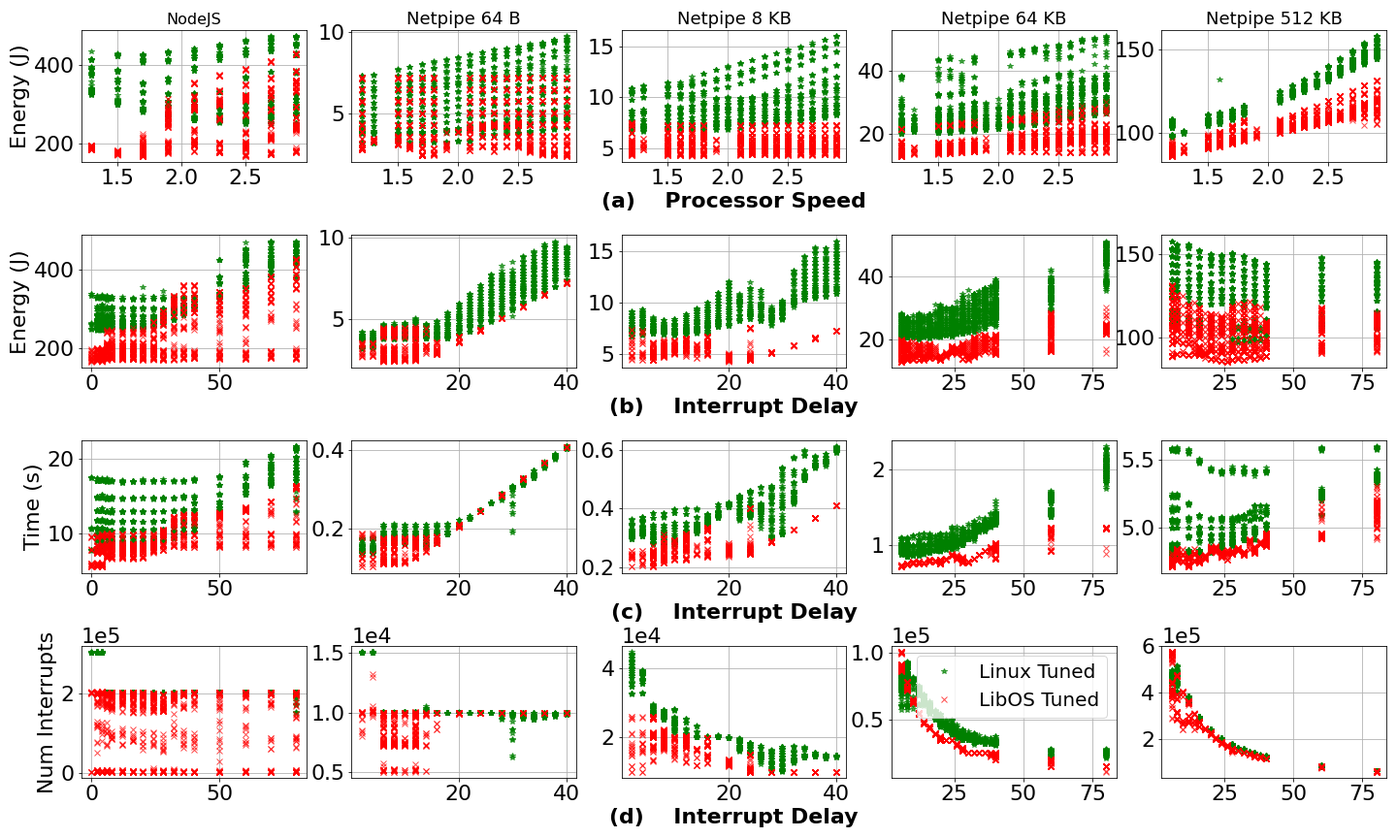
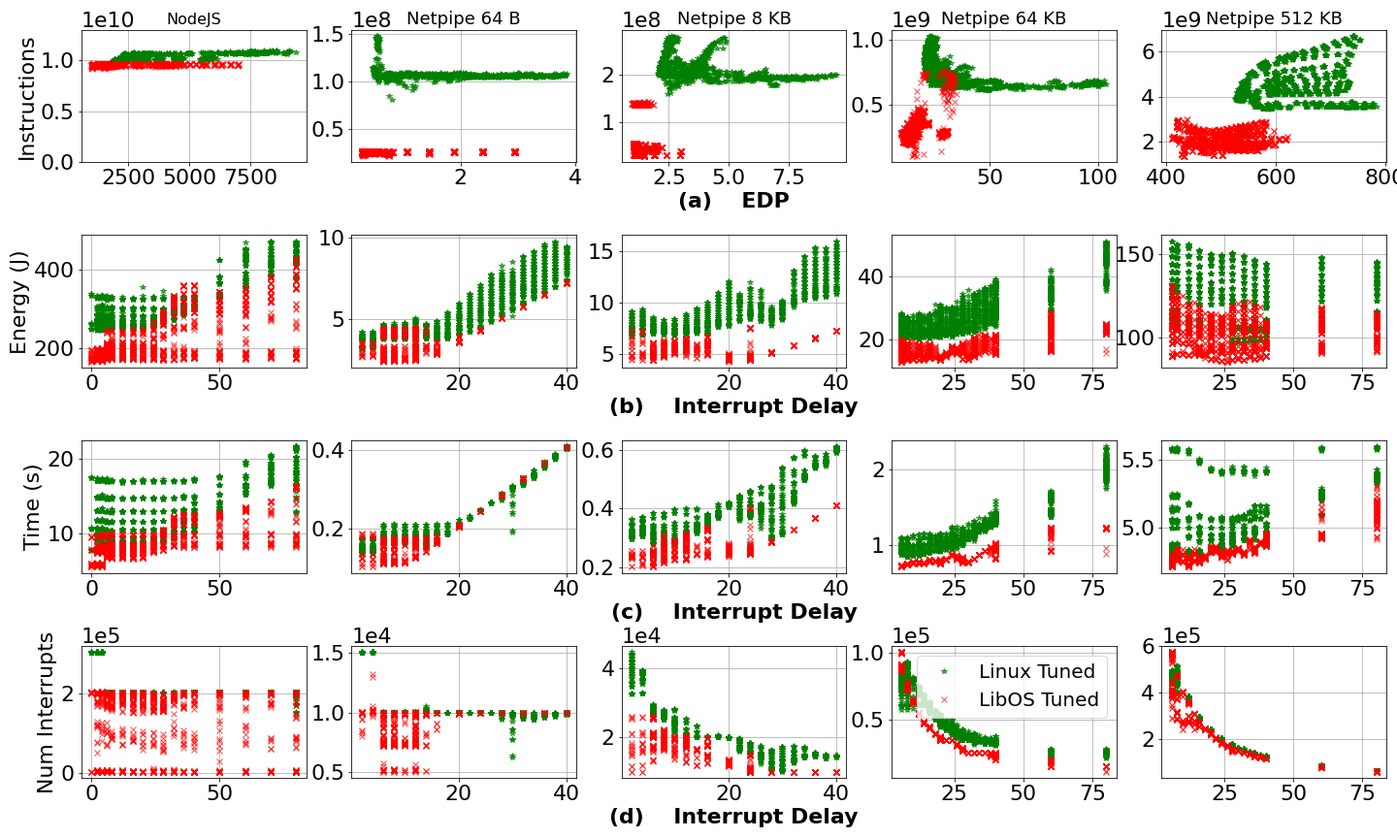
some text

Changed region(s): [[0.0, 0.0, 1.0, 0.25], [0.4375, 0.0, 0.4688, 0.0312], [0.0625, 0.0, 0.0938, 0.0312]]

diff --git a/sosp-21/workflow.tex b/sosp-21/workflow.tex
@@ -14,15 +14,18 @@
 From an OS perspective we break down network driven processing into stages that allows us to organize and reflect the OS and application interaction with the workload request timeline.  This break down is illustrated in figure~\ref{fig:timeline}.   
 
 \subsection{Quiescent}
+\label{sec:workflow:Quiescent}
 Given the packet and transactional nature of network driven services a quiescent period, in which no requests are present at the server, precedes activity on the server. 
 
 \subsubsection{Open Loop:}
-In an open loop scenario like a Memcached workload, the external request rate induces an inter-arrival gap that will drive the quiescent period -- longer at lighter loads (lower queries per second (QPS)) and shorter at heavier loads (higher QPS). Largely the arrival rate can be considered independent of the time required to service a request.  System performance is typically evaluated in terms of the 99\% tail latency it achieves.  Moreover, providers often set a Quality of Service (QoS) target, such as  a 99\% tail latency of 500${\mu}$s, categorizing system performance into acceptable and unacceptable.  As Mootaz et al.\cite{mootaz} observed, in latency focused workloads, the "latency-slack" between the mean time to servicing a request and the QoS target creates an opportunity for energy-performance tradeoffs.  In particular, it maybe possible to reduce mean performance by not executing requests as fast as possible and or not processing request immediately upon their arrival to reduce energy consumption while not violating the QoS target.  
+\label{sec:workflow:openloop}
+In an open loop scenario like a Memcached workload, the external request rate induces an inter-arrival gap that will drive the quiescent period -- longer at lighter loads (lower queries per second (QPS)) and shorter at heavier loads (higher QPS). Largely the arrival rate can be considered independent of the time required to service a request.  System performance is typically evaluated in terms of the 99\% tail latency it achieves.  Moreover, providers often set a Service-level Agreement (SLA) target, such as a 99\% tail latency of 500${\mu}$s, categorizing system performance into acceptable and unacceptable.  As Mootaz et al.\cite{mootaz} observed in latency focused workloads, the "latency-slack" between the mean time to servicing a request and the SLA target creates an opportunity for energy-performance trade-offs.  In particular, it maybe possible to reduce mean performance by not executing requests as fast as possible and or not processing request immediately upon their arrival to reduce energy consumption while not violating the QoS target.  
 
 \subsubsection{Closed Loop:}
-In a closed loop setting, like snapshotting a database to a remote server or video streaming, the arrival rate of the next request, that forms the overall task, depends on how long it takes to service the current request.  However, the quiescent period is bounded by the network round trip time, that depends on  the size of a request and reply packets, and the remote processing time.   System performance is largely evaluated on how fast a server can complete the entire task given a network link speed and a remote system.  Given workload specific characteristics such as the processing required and round-trip costs it is possible, as we will see, to find configurations in which the OS interacts with slowing down to improve both time and energy. We know from previous research in energy proportionality in datacenters, the nature of web-centric applications causes diurnal troughs~\cite{Barroso:2009:DCI:1643608, oldi-study, oldi-pegasus, warehouse-power, energyproportion, WebSearch}.
+\label{sec:workflow:closed_loop}
+In a closed loop setting, like snapshotting a database to a remote server or video streaming, the arrival rate of the next request, that forms the overall task, depends on how long it takes to service the current request.  However, the quiescent period is bounded by the network round trip time, that depends on  the size of a request and reply packets, and the remote processing time. System performance is largely evaluated on how fast a server can complete the entire task given a network link speed and a remote system.  Given workload specific characteristics such as the processing required and round-trip costs it is possible, as we will see, to find configurations in which the OS interacts with slowing down to improve both time and energy. 
 
-and one method with which to increase energy efficiency during these troughs is to maximize the amount of work done. 
+%We know from previous research in energy proportionality in datacenters, the nature of web-centric applications causes diurnal troughs~\cite{Barroso:2009:DCI:1643608, oldi-study, oldi-pegasus, warehouse-power, energyproportion, WebSearch}, and one method with which to increase energy efficiency during these troughs is to increase performance. We find even in the performance driven closed loop applications, there still exist interesting trade-offs between OSes.
 
 Given our goal of studying and explaining the implications of the OS on network driven processing our analysis framework, and evaluation, includes closed loop settings.  In particular, we use a simple ping-pong application to stress OS behavior while varying packet-sizes to reveal how OS path length and path efficiency interacts with slowing down processing, relative to the round trip time observed at the server.  Additionally we use a second closed loop that stresses single core application processing with negligible packet sizes to evaluate if OS structure can impact the application efficiency.  
 
@@ -32,10 +35,11 @@ Given our goal of studying and explaining the implications of the OS on network 
 Fundamental to any operating system is how it detects and schedule processing in response to IO device activity.  At the two extremes are interrupt and poll driven detection.  
 
 \subsubsection{Interrupt driven IO}
-Using interrupts has three important implications: 1) Interrupts can be used to transition a processor from a halted state which the OS entered to sleep the processor (at some selected HW sleep state (C-state)) in response to external activity, 2)  Interrupts allow an OS to arbitrate processing across competitive devices and processing in a multi-programmed/multi-device setting, 3) interrupt processing has an inherent performance costs associated with it -- in terms of latency in starting to handle a request, either because of the costs associated with preempting currently scheduled work\cite{whenpollisbetter} or exit penalties associated with the C-state that the processors was halted in\cite{}. Interrupt processing can also have a negative impact on the instruction efficiency, measured in Instructions Per Cycle (IPC), due to induced micro-architecture hazards such as the inability to prefetch or speculatively execute across an interrupt.
+\label{sec:workflow:interruptio}
+Using interrupts has three important implications: 1) Interrupts can be used to transition a processor from a halted state which the OS entered to sleep the processor (at some selected HW sleep state (C-state)) in response to external activity, 2)  Interrupts allow an OS to arbitrate processing across competitive devices and processing in a multi-programmed/multi-device setting, 3) interrupt processing has an inherent performance costs associated with it -- in terms of latency in starting to handle a request, either because of the costs associated with preempting currently scheduled work\cite{whenpollisbetter} or exit penalties associated with the C-state that the processors was halted in\cite{cpuidle_policy}. Interrupt processing can also have a negative impact on the instruction efficiency (Instructions Per Cycle (IPC)), due to induced micro-architecture hazards such as the inability to pre-fetch or speculatively execute across an interrupt.
 
 \subsubsection{Poll driven IO}
-
+\label{sec:workflow:pollio}
 Most modern high-speed devices expose a memory, if not cache, friendly interface, that permits the processors to read a per-core memory address to determine if the device, such as the Network Interface Card (NIC) has received data that requires processing by the core.  This facility allows software to directly poll the device and initiate software handling without an interrupt.  This approach reduces latency and other performance penalties associated with interrupt driven IO.  However, the period in which the device is checked requires CPU activity and thus limits the ability to halt the cores when there is no work to be done.  In the extreme, a customized OS, supporting a single application can run a poll loop on every core to constantly check for work, conduct the work and then go back to polling for new work and thus never halting the processors due to idleness. While used in a slightly different context to Kim et al.\cite{pacingtoidle}, we will refer to this regime as 'no-idle', as it results in a similar energy management strategy albeit in the context of network driven processing.  In general such an aggressive poll approach is assumed to maximize performance by avoiding interrupt overheads and minimizing latency. 
 
 \subsubsection{Hybrid driven IO}
@@ -47,12 +51,14 @@ A general purpose operating system typically exploits some form of hybrid altern
 A library OS that is specialized to support the execution of a single application can explore more extreme strategies like the aggressive polling, described above, given that it need not arbitrate the device or cores.
 
 \subsubsection{Interrupt Delaying}
+\label{sec:workflow:itrdelay}
 \input{itr_flowchart}
 A common feature of modern high speed NICs is the ability to delay the delivery of interrupt when an event such as packet arrival or transmission completion. By manipulating this setting software can limit the minimum time between interrupts or in other words the maximum rate at which the NIC events can interrupt the CPUs. The NIC we use in this study exposes this mechanism via an Interrupt Throttling (ITR) setting.  We flowchart the algorithm from the NIC's datasheet~\cite{82599} in  Figure~\ref{fig:itr_delay_flowchart}. Software uses the ITR register to configure a delay in 2$\mu$s increments.  If the spacing of events, such as packet reception, is less than  $2{\mu}s \times ITR$ the NIC will delay assertion.  If on the other hand events are sufficiently separated an interrupt will be asserted immediately.   
 
-By default the Linux device driver attempts to automatically set ITR to reduce interrupt overheads.  We disable this feature and manually control its value to explore the impact of delaying the detection of NIC events.  Combining interrupt driven IO and delaying interrupt assertion via ITR setting we can explore the impact of delaying packet detection and thus delaying processing of requests.  Depending of the state of the processor the NIC can buffer packets in its own memory or on the main memory of the host\footnote{According to the data sheet if the processor is in sleep state packets can only be buffered on the card's limited memory and once exhausted packets will be dropped}.  Delaying interrupt detection introduces an OS control that can interact with energy and performance.  The prior work of Mootaz et al\cite{mootaz} and the more recently work of Chou et al{chou} suggests that delaying packet processing can interact with DVFS and C-State control in latency sensitive workloads to yield useful energy performance trade-offs. To this end we sweep ITR values for all our workloads OS configurations, and DVFS values.
+By default the Linux device driver attempts to automatically set ITR to reduce interrupt overheads.  We disable this feature and manually control its value to explore the impact of delaying the detection of NIC events.  Combining interrupt driven IO and delaying interrupt assertion via ITR setting we can explore the impact of delaying packet detection and thus delaying processing of requests.  Depending of the state of the processor the NIC can buffer packets in its own memory or on the main memory of the host\footnote{According to the data sheet if the processor is in sleep state packets can only be buffered on the card's limited memory and once exhausted packets will be dropped}.  Delaying interrupt detection introduces an OS control that can interact with energy and performance. Prior work also suggests that delaying packet processing can interact with DVFS and C-State control in latency sensitive workloads to yield useful energy performance trade-offs~\cite{mootaz, chou}. To this end we sweep interrupt delay values for all our workloads OS configurations, and DVFS values.
 
 \subsection{OS Request Processing}
+\label{sec:workflow:osreqproc}
 
 Once the OS detection mechanism identifies that the NIC has data to process several components of OS functionality must be run in accordance with the execution model of the OS.  Specifically device driver code must dequeue layer 2 frames and schedule them for processing by the appropriate network protocol code. This code must ultimately determine the application end point, a port in the case of IP and TCP, and enqueue, the encapsulated data,  for application processing. 
 
@@ -61,6 +67,8 @@ This work, on a general purpose OS, is typically split between two levels of sch
 Library operating systems that are customized for a specific application and processing model often shed much of the above complexity both shortening the path and eliminating the above privilege scheduling domains\cite{10.1145/2997641,10.1145/2812806,EbbRT}.  Rather they can exploit short-cuts that allow run to completion execution of all the logic, including application, processing in response to detecting device activity.  
 
 \subsubsection{Application Processing}
+\label{sec:workflow:appproc}
+
 Once the OS has completed protocol processing it enables application logic to begin.  Depending on the workload this may be very simple as in the case of a workload like memcached or it require significant cpu activity as in the case of  an application server written in managed runtime such as nodejs or one that does non-trivial work to service a request. 
 
 As illustrated, during application processing the OS logic may be interleaved.  This work roughly falls into two categories, synchronous work done in service of this application request (page-faults, system calls, etc) and asynchronous work not having to do with this request (OS background work, processing of other requests or processes).
@@ -68,12 +76,14 @@ As illustrated, during application processing the OS logic may be interleaved.  
 Library OS's can often avoid interleaving asynchronous work, unrelated to the request handling,  and thus minimize jitter and improve IPC. 
 
 \subsubsection{OS Reply Processing}
+\label{sec:workflow:osrepproc}
 
 As illustrated At some point during application processing a reply is generated and submitted to the OS for transmission.  This can often be handled in an asynchronous fashion depending on the OS semantics.  Where the OS can initiate protocol processing and device transmission in parallel with the remaining application request processing logic (eg. book keeping, cleanup and preparation for the next request).
 
 This potential overlap is an important distinction as it reveals that some applications may have an associated opportunity for a performance/energy optimization.  Specifically, it is possible given a particular arrival rate that there maybe settings that permit the remaining application work to overlap with the time for the next request to arrive in both a closed and open loop settings.  As such it maybe possible that tradeoffs in sleep state latencies, interrupt overheads and polling leads to better performance at lower energy consumption.  
 
 \subsubsection{Idle Policy}
+\label{sec:workflow:idlepolicy}
 
 If all processing is complete, no traffic is pending and aggressive polling is not in use the OS can enact a policy that select a hardware sleep state (C-State) to halt the core to.  The sleep states and various policies has been extensively studied\cite{}.  Each sleep state is has an associated reduction in static power consumption. In the extreme, the deepest sleep states can flush micro-architectural state such as caches and power down these structures. However, each sleep state also imposes a progressively larger wakeup latency and potential impact on execution efficiency given the possible flushing of state. 
 
@@ -86,6 +96,7 @@ In our study we allow Linux's scheduler and default idle driver to decide if a c
 When we use the Library OS to explore customized behavior we explore two simple configurations.  In the first we when there is no work to process on a core we simply put the processor into the deepest sleep state thus ignoring any trade-offs in the use of other sleep states.   This allows us to focus on the interaction that slowing down the processor and adjusting the ITR can have with the fixed use of deep sleep.   The second approach we take is the 'no-idle' configuration as discussed above where have no idle policy and simply immediately got back to using poll to implement request detection.
 
 \subsection{DVFS}
+\label{sec:workflow:dvfs}
 
 As noted the use of Dynamic Voltage Frequency Scaling of a processors allows software to adjust the energy consumption of CMOS based logic while trading off the rate at which instructions complete.  As noted by~\cite{slowdownorsleep, 10.1109/40.888701, pacingtoidle, udpm} static or leakage energy consumption is not particularly affected by DVFS and induces a base cost for keeping a fix core architecture active.\footnote{Opposed to big-little or reconfigurable core architectures.}
 

diff --git a/sosp-21/closed_loop.tex b/sosp-21/closed_loop.tex
@@ -21,67 +21,84 @@
 %This approach makes the workloads more predictable and can help smooth out diurnal variations as well~\cite{10.1145/2168836.2168842, 10.1145/2000064.2019527, oldi-study}.
 % As pointed out in previous studies of energy proportionality in datacenters, the nature of web-centric applications causes diurnal troughs~\cite{Barroso:2009:DCI:1643608, oldi-study, oldi-pegasus, warehouse-power, energyproportion, WebSearch} and one method with which to increase energy efficiency during these troughs is to maximize the amount of work done, typically under a given energy budget. Figure~\ref{fig:closed_loop_overview} illustrates the set of closed-loop workloads studied in our work, all of the workloads are run in a single core with a single connection, further, they enable us to explore these simple closed-loop examples in detail in settings of computationally intensive (nodejs) and across varying network bandwidth requirements (netpipe). 
 
-Figure~\ref{fig:closed_loop_overview} illustrates the set of closed-loop workloads studied in our work, all of the workloads are run in a single core with a single connection. Netpipe~\cite{snell1996netpipe} involves sending messages of identical size between two systems for a fixed number of iterations. We fix the iteration count at 5000 and show results for a range of message sizes. We expect as message size the time to be dominated by transmission time. One also expects on Linux the memory copy time to become dominant as message size increases. \footnote{We found that the 10 GB link is close to saturation when a message of size greater 700 KB is exchanged.}. NodeJS~\cite{nodejs} runs a JavaScript HTTP Webserver and consists of a single client, running the \textit{wrk}~\cite{wrk} benchmark\footnote{We modified \textit{wrk} to place a fixed request load of 100K.}, that sends web requests to a server thread for a fixed period of time. The server responds to each request with a small static payload of size 148 bytes. The library OS was ported to support baremetal NodeJS by providing OS interfaces that link with the V8~\cite{v8} JavaScript engine and libuv~\cite{libuv}. 
+Figure~\ref{fig:closed_loop_overview} illustrates the set of closed-loop workloads studied in our work, all of the workloads are run in a single core with a single connection. Netpipe~\cite{snell1996netpipe} involves sending messages of identical size between two systems for a fixed number of iterations. We fix the iteration count at 5000 and show results for a range of message sizes. As message size increases, the workload becomes more network bound; further, linux suffers an additional memory copy from kernel to userspace compared to the libOS. \footnote{We found that the 10 GB link is close to saturation when a message of size greater 700 KB is exchanged.}. NodeJS~\cite{nodejs} consists a JavaScript HTTP Webserver running in side a nodejs runtime. A single client running the \textit{wrk}~\cite{wrk} benchmark\footnote{We modified \textit{wrk} to place a fixed request load of 100K.} sends web requests to the nodejs server for a fixed period of time. The server responds to each request with a small static payload of size 148 bytes. The library OS was ported to support bare-metal nodejs by providing OS interfaces that link with the V8~\cite{v8} JavaScript engine and libuv~\cite{libuv}. 
+
+As datacenter energy use continue to rise~\cite{gupta2020chasing, NLP-energy,warehouse-power}, we believe traditional metrics such as energy-delay-product (EDP), coined from architecture community~\cite{573184,10.1109/40.888701}, should be elevated when studying energy efficiency of applications and the OS. Therefore, we believe it is an apt metric to use when understanding these trade-offs between the system types in a closed loop setting. We use the {\larger[4]\textbf{o}} graphical indicator in the figures below to represent the setting with best (lowest) EDP.
 
 %We believe these set of workloads will help to simplify the complexity which to compare and contrast the effects of slowing down in the four types of systems listed above.
 
 %\subsubsection{Observation-1: Computationally heavy applications exhibits more performance-energy trade-offs}
 %Comparing the nodejs and netpipe workloads in figure~\ref{fig:closed_loop_overview}, one can see the differences in trade-offs as processor is slowed. In netpipe, the \textit{vertical-ness} as the datapoints get darker shows that slowing down the processor does not cause an increase in time, whereas the opposite is shown in the nodejs data.
 
-% MIN-TIME linux_default 1 3.0 8.396 269.4
-% MIN-TIME linux_tuned 2 2.9 7.599 244.93
+% MIN-TIME linux_default   1 3.0 8.396 269.4
+% MIN-TIME linux_tuned     2 2.9 7.599 244.93
 
 % MIN-TIME linux_default 64 1 3.0 0.21 4.44
-% MIN-TIME linux_tuned 64 2 2.9 0.14 4.17
+% MIN-TIME linux_tuned   64 2 2.9 0.14 4.17
 
 % MIN-TIME linux_default 8192 1 3.0 0.36 7.99
-% MIN-TIME linux_tuned 8192 8 2.8 0.27 7.94
+% MIN-TIME linux_tuned   8192 8 2.8 0.27 7.94
 
 % MIN-TIME linux_default 65536 1 3.0 0.98 24.25
-% MIN-TIME linux_tuned 65536 8 2.9 0.84 26.5
+% MIN-TIME linux_tuned   65536 8 2.9 0.84 26.5
 
 % MIN-TIME linux_default 524288 1 3.0 5.45 119.77
-% MIN-TIME linux_tuned 524288 8 2.9 4.77 155.56
+% MIN-TIME linux_tuned   524288 8 2.9 4.77 155.56
 
+% MIN-TIME ebbrt_tuned   4 2.9 5.6 176.11 986.11
+% MIN-TIME ebbrt_poll    0 2.9 5.4 176.01 950.1
 
+% MIN-TIME ebbrt_tuned 64 2 2.3 0.1 2.73 0.28
+% MIN-TIME ebbrt_poll  64 0 2.5 0.06 1.7 0.1
+
+% MIN-TIME ebbrt_tuned 8192 6 2.9 0.2 5.76 1.16
+% MIN-TIME ebbrt_poll  8192 0 2.1 0.16 4.0 0.64
+
+% MIN-TIME ebbrt_tuned 65536 6 1.7 0.72 14.46 10.35
+% MIN-TIME ebbrt_poll  65536 6 1.3 0.66 32.45 21.48
+
+% MIN-TIME ebbrt_tuned 524288 6 2.9 4.72 130.94 617.38
+% MIN-TIME ebbrt_poll  524288 6 2.7 4.64 228.13 1059.59
 
 
 
 % MIN-EDP linux_default 1 3.0 8.4 269.27 2261.6
-% MIN-EDP linux_tuned 2 2.9 7.6 244.93 1861.22
+% MIN-EDP linux_tuned   2 2.9 7.6 244.93 1861.22
 
 % MIN-EDP linux_default 64 1 3.0 0.21 4.41 0.92
-% MIN-EDP linux_tuned 64 2 2.1 0.14 3.33 0.47
+% MIN-EDP linux_tuned   64 2 2.1 0.14 3.33 0.47
 
 % MIN-EDP linux_default 8192 1 3.0 0.36 7.99 2.89
-% MIN-EDP linux_tuned 8192 10 2.0 0.3 6.84 2.05
+% MIN-EDP linux_tuned   8192 10 2.0 0.3 6.84 2.05
 
 % MIN-EDP linux_default 65536 1 3.0 0.98 24.25 23.72
-% MIN-EDP linux_tuned 65536 12 1.8 0.94 20.91 19.57
+% MIN-EDP linux_tuned   65536 12 1.8 0.94 20.91 19.57
 
 % MIN-EDP linux_default 524288 1 3.0 5.45 119.77 652.63
-% MIN-EDP linux_tuned 524288 28 1.2 5.06 97.04 491.22
+% MIN-EDP linux_tuned   524288 28 1.2 5.06 97.04 491.22
 
 
-% MIN-EDP ebbrt_tuned 4 2.9 5.6 176.11 986.11
-% MIN-EDP ebbrt_poll 0 2.9 5.4 175.93 949.67
+% MIN-EDP ebbrt_tuned   4 2.9 5.6 176.11 986.11
+% MIN-EDP ebbrt_poll    0 2.9 5.4 175.93 949.67
 
-% MIN-EDP ebbrt_tuned 64 6 2.9 0.11 2.45 0.27
-% MIN-EDP ebbrt_poll 64 0 1.2 0.06 1.2 0.08
+% MIN-EDP ebbrt_tuned   64 6 2.9 0.11 2.45 0.27
+% MIN-EDP ebbrt_poll    64 0 1.2 0.06 1.2 0.08
 
 % MIN-EDP ebbrt_tuned 8192 2 1.9 0.2 4.7 0.95
-% MIN-EDP ebbrt_poll 8192 0 1.3 0.17 3.34 0.57
+% MIN-EDP ebbrt_poll  8192 0 1.3 0.17 3.34 0.57
 
 % MIN-EDP ebbrt_tuned 65536 6 1.2 0.72 13.07 9.37
-% MIN-EDP ebbrt_poll 65536 6 1.3 0.66 32.45 21.48
+% MIN-EDP ebbrt_poll  65536 6 1.3 0.66 32.45 21.48
 
 % MIN-EDP ebbrt_tuned 524288 26 1.2 4.77 85.94 409.68
-% MIN-EDP ebbrt_poll 524288 6 1.5 4.65 227.86 1058.57
+% MIN-EDP ebbrt_poll  524288 6 1.5 4.65 227.86 1058.57
 
 % find configurations in which the OS interacts with slowing down to improve both time and energy. 
-\subsubsection{Speeding up to lower energy}
+\subsubsection{Speeding up to save energy}
 %% relation between quiescent and time to do work
-Figures~\ref{fig:closed_loop_detail_1}(b)(c) shows the strong correlation that minimizing the time it takes to finish the work and also results in the least amount of energy used in closed loop workloads. Figures~\ref{fig:closed_loop_detail_1}(c) demonstrates the mechanism for slowing down interrupt delays can instead be speed up (setting a low interrupt delay value) in order to increase packet processing efficiency, and therefore reduce overall time, across all the workloads and in both systems. One can also notice the wider variation in time for nodejs in figure~\ref{fig:closed_loop_detail_1}(c), this is mainly the result of greater performance-energy trade-offs that occur in a computationally bound application.
+As discussed in closed loop workload analysis in section~\ref{sec:workflow:closed_loop}, figures~\ref{fig:closed_loop_overview} demonstrates the correlation that minimizing the time to finish the work and also results in most energy savings. One mechanism to reduce time across all the closed loop workloads and system types is to speed up interrupt delays (set a low interrupt delay value) as shown in figure~\ref{fig:closed_loop_detail_1}(c); while slow down processor does cause fluctuations in time for each interrupt delay value, the overall trend is low interrupt delay results in lowest time. By reducing time, one also minimizes energy as shown in figure~\ref{fig:closed_loop_detail_1}(b). For nodejs and netpipe 64B, we found setting a low interrupt delay (2$\mu$s)also results in the lowest EDP, this due to the lightweight nature of the payloads themselves (under a single MTU). However, as the payload sizes increase (to 8KB, 64KB, and 512KB), we found the interrupt delay value that yields lowest EDP also become larger, up to 28$\mu$s. A 10 GbE NIC, assuming no network jitter and switching cost, can transmit at an optimal rate of 1250 bytes/$\mu$s. With larger payload sizes, one can imagine portions of its payload being transmitted over the wire and processed by software asynchronously. The interrupt delay value that yields lowest EDP is effectively indicating an optimal configuration with which the software should pace packet processing and save energy by sleeping during the its quiescent periods. By modulating interrupt delay, Linux-tuned is able to lower its EDP over Linux-default by up to 40\%. Due to the OS path length efficiency of the libOS (figure~\ref{fig:closed_loop_detail_1}), we find the libOS uses less instructions even in computationally heavy workloads such as nodejs by 7.2\%.  
+
+%One can also notice the wider variation in time for nodejs in figure~\ref{fig:closed_loop_detail_1}(c), this is mainly the result of greater performance-energy trade-offs that occur in a computationally bound application.
 
 \subsubsection{Slow-to-stay-busy effect}
 In the library OS, we find slowing down of the processor results in a new energy efficient state which we term \textit{slow-to-stay-busy}. In figure~\ref{fig:closed_loop_detail_1}(d), one can see that in both nodejs and netpipe 64 B, for various interrupt delay values, the number of interrupts can be lowered by up to 90\%. Upon closer examining the data, we find slowing down of the processor actually causes this decrease in number of interrupts. The reason for this behavior in the library OS can be seen in figure~\ref{fig:timeline}; the physical transmission of OS reply packets by the network driver can occur in parallel with the un-winding of the stack back to the nodejs application and then down (again) to the network receive function to check for incoming packets. It is during this un-winding code path where slowing down of the processor actually results in a slow-to-stay-busy state where by the time the un-wind has reached the network receive function (again), the response to the initial transmitted packet has already arrived, therefore the the software is able to skip another hardware interrupt in order to effectively stay busy and process this new reply packet. This scenario only occurs in the library OS due to the run-to-completion nature of its OS structure.
@@ -98,6 +115,6 @@ In the library OS, we find slowing down of the processor results in a new energy
 % MIN-TIME ebbrt_poll 524288 6 2.7 4.64 228.13 1059.59
 
 \subsubsection{Trade-offs in library OS polling}
-As datacenter energy use continue to rise~\cite{gupta2020chasing, NLP-energy,warehouse-power}, we believe traditional metrics such as energy-delay-product (EDP), coined from architecture community~\cite{573184,10.1109/40.888701}, should become more prevalent for studying energy efficiency of datacenter applications. Therefore, we believe it is an apt metric to use when understanding energy efficiency trade-offs between LibOS-poll and LibOS-tuned in a closed loop setting. For nodejs, LibOS-poll results in a better (lower) EDP than LibOS-tuned by 4\%, partially this is due to nodejs' application code is already warmed up by containing a polling loop to check for inbound packets. For netpipe 64B and 8KB, EDP by polling is more effective by 1.6X and 3.3X respectively. We hypothesize this is due to the smaller payload sizes, therefore getting the work done the fastest results in the lowest energy use. As payload size increases, the workload becomes more network bound, therefore polling actually results in worse EDP by up to 2X. We find at these larger payload sizes, polling only reduced time by around 10\%, however energy consumption was over 2X worse.
+ For nodejs, LibOS-poll results in a better (lower) EDP than LibOS-tuned by 4\%, partially this is due to nodejs' application code is already warmed up by containing a polling loop to check for inbound packets. For netpipe 64B and 8KB, EDP by polling is more effective by 1.6X and 3.3X respectively. We hypothesize this is due to the smaller payload sizes, therefore getting the work done the fastest results in the lowest energy use. As payload size increases, the workload becomes more network bound, therefore polling actually results in worse EDP by up to 2X. We find at these larger payload sizes, polling only reduced time by around 10\%, however energy consumption was over 2X worse.
 
 %% Vertical behavior of Netpipe 64 KB and 512 KB??

diff --git a/sosp-21/exp_setup2.tex b/sosp-21/exp_setup2.tex
@@ -38,12 +38,14 @@ Applications are ported to it by configuring the necessary OS components and com
 
 %~\cite{ix,seda,arrakis,ebbrt}. 
 
-Given the design and implementation for single-application, non-preemptive processing via an optimized OS and application binary, the library OS components can avoid many checks and streamline execution, ranging from interrupt dispatch to application logic. The NIC device driver totals over 3000 lines of code and interfaces with the library OS multi-core TCP/IP network stack\footnote{The device driver programs the NIC using per-cpu queues and interrupts, maintaining the affinity of TCP connections to their respective cores.}. The library OS provides an interface for statically setting ITR delay values. We use this interface in our study as we sweep across hardware parameter space. 
+Given the design and implementation for single-application, non-preemptive processing via an optimized OS and application binary, the library OS components can avoid many checks and streamline execution, ranging from interrupt dispatch to application logic. The NIC device driver totals over 3000 lines of code and interfaces with the library OS multi-core TCP/IP network stack\footnote{The device driver programs the NIC using per-cpu queues and interrupts, maintaining the affinity of TCP connections to their respective cores.}. The library OS provides an interface for statically setting interrupt delay values. We use this interface in our study as we sweep across hardware parameter space. 
 
-The bare-metal library OS follows a simple implementation and idling behavior. If no interrupt events or software events exist, the event-loop of the library OS infers that the system is idle and halts the core to enter the deepest sleep state supported by our hardware (C7). In contrast, upon receiving a packet, the device driver management code, protocol processing code, and application code can be dispatched and run to completion on a single event triggered by a NIC interrupt. The NIC driver also exposes a configurable constant (set to 64 for all our experiments) that is used to control how many packets can be processed in a single interrupt invocation before returning to the event-loop of the core on which the interrupt was processed. This behaviour, in turn, introduces a simple bounded per-cpu device-level poll. %The library OS' idling and device-polling policies are simple compared to Linux policies. %Our study reveals the contrast between these library OS policies and those applied by Linux through presenting a detailed quantification of execution trends and power events. It uncovers surprising impacts of OS functionality on overall system execution and yields insight on OS-level adaptations for energy-performance goals.
-\subsubsection{NIC polling in the library OS}
+The bare-metal library OS uses sleep state algorithm. If no interrupt events or software events exist, the event-loop of the library OS infers that the system is idle and halts the core to enter the deepest sleep state supported by our hardware (C7). In contrast, upon receiving a packet, the device driver management code, protocol processing code, and application code can be dispatched and run to completion on a single event triggered by a NIC interrupt. The NIC driver also exposes a configurable constant (set to 64 for all our experiments) that is used to control how many packets can be processed in a single interrupt invocation before returning to the event-loop of the core on which the interrupt was processed. This behaviour, in turn, introduces a simple bounded per-cpu device-level poll. %The library OS' idling and device-polling policies are simple compared to Linux policies. %Our study reveals the contrast between these library OS policies and those applied by Linux through presenting a detailed quantification of execution trends and power events. It uncovers surprising impacts of OS functionality on overall system execution and yields insight on OS-level adaptations for energy-performance goals.
+\subsubsection{NIC polling in the library OS without sleep}
 %% features of the card that lets us poll - read the in-memory 
-The simple run-to-completion, and lightweight event-driven execution model of the library OS allows us to uniquely explore the performance-energy trade-offs of slowing down the processor in the context of a polling loop for packet processing. Intel's 82599 datasheet~\cite{82599} defines two hardware registers that enable automatic clearing and masking of interrupts per receive and transmit queue. To enable polling, we 1) enable auto clearing of network interrupts in order to receive the very first interrupt of every queue, and we 2) disable auto masking to prevent future interrupts on that particular queue. Next, we wrote a custom network interrupt handler for that very first interrupt which effectively calls the packet processing function in a tight loop. Due to this tight polling loop, the library OS will never halt the processor and thus will not use any sleep states. To enable interrupts, we enable both interrupt clearing and masking and set the interrupt handler to be a packet processing function instead.
+The simple run-to-completion, and lightweight event-driven execution model of the library OS allows us to also explore the performance-energy trade-offs of slowing down the processor in the context of a polling loop for packet processing. We use standard techniques to auto clear hardware interrupts and enable a tight polling loop. The loop checks a in-memory data structure in which the NIC updates whenever new packet descriptors are to ready be processed. Due to this tight loop, the library OS will never halt the processor and thus will not use any sleep states.
+
+%Intel's 82599 datasheet~\cite{82599} defines two hardware registers that enable automatic clearing and masking of interrupts per receive and transmit queue. To enable polling, we 1) enable auto clearing of network interrupts in order to receive the very first interrupt of every queue, and we 2) disable auto masking to prevent future interrupts on that particular queue. Next, we wrote a custom network interrupt handler for that very first interrupt which effectively calls the packet processing function in a tight loop. D To enable interrupts, we enable both interrupt clearing and masking and set the interrupt handler to be a packet processing function instead.
 
 \begin{table}[t]
 \centering

diff --git a/sosp-21/exp.tex b/sosp-21/exp.tex
@@ -1,8 +1,8 @@
 \label{sec:exp}
-Figures~\ref{fig:closed_loop_overview}~\ref{fig:mcd_overview},~\ref{fig:mcdsilo_overview} shows an overview of all the experimental datapoints gathered across the different applications and their respective loads as listed in table~\ref{table:wrkcfgs}. For each workload, we break down the differences in slowing down in the respective system types in terms of performance (time for closed-loop and 99\% tail latency for open-loop) and their respective energy use. In order to reason about the trade-offs that occur when slowing down the processor speed and interrupt delay, we use two graphical mechanism to highlight the differences: 
+Figures~\ref{fig:closed_loop_overview}~\ref{fig:mcd_overview},~\ref{fig:mcdsilo_overview} shows an overview of all the experimental runs gathered across the different applications and their respective loads as listed in table~\ref{table:wrkcfgs}. For each workload, we break down the trade-offs in slowing down in the respective system types in terms of performance (time for closed-loop and 99\% tail latency for open-loop) and their respective energy use. In order to reason about the trade-offs that occur when slowing down the processor speed and interrupt delay, we use two graphical mechanism to highlight the differences: 
 \begin{enumerate}
     \item The \textit{size} of each point is representative of the degree with which the interrupt delay used; the {\larger[1]\textit{larger}} the size the more interrupt delay is \textit{increased} while the \textit{smaller} the size the more it is \textit{decreased} (faster network interrupts).
     \item The \textit{color gradient} of each point represents the degree of slowing down processor speeds; the \textbf{darker} the color the more the processor has been \textit{slowed} and vice-versa when the color is \textit{lighter}.
 \end{enumerate}
 
-In total, we conducted this study across four system types across the two OSes. For linux and the libOS, the bulk of this work is focused on studying the effects of slowing down processor and interrupts by statically tuning them, and in the figures below, we refer to these datapoints as \textit{LibOS-tuned} and \textit{Linux-tuned}. As a baseline for linux, we tested a configuration where it is not statically tuned (\textit{Linux-default}), in this mode, linux's interrupt delay and processor speed are both tuned dynamically by its built-in policies. For the libOS, we also explored a version of slowing down the processor by replacing network interrupts with a polling loop (\textit{LibOS-nonidle}). Furthermore, for each of the system type that we've measured, the configuration that yielded the best performance and best (lowest) energy are indicated with a {\larger[4]\textbf{+}} and {\larger[4]\textbf{x}} respectively.
+In total, we conducted this study across four system types across the two OSes. For linux and the libOS, the bulk of this work is focused on studying the effects of slowing down processor and interrupts by manually controlling them, and in the figures below, we refer to these data points as \textit{LibOS-tuned} and \textit{Linux-tuned}. To better understand the degree of trade-offs in linux, we also ran experiments on a base configuration\textit{Linux-default}), in this mode, linux's interrupt delay and processor speed are both controlled dynamically by its built-in policies. For the libOS, we also explored a version of slowing down the processor by replacing network interrupts with a polling loop (no sleep states used) (\textit{LibOS-poll}). Furthermore, for each of the system type that we've measured, the configuration that yielded the best performance and best (lowest) energy are indicated with a {\larger[4]\textbf{+}} and {\larger[4]\textbf{x}} respectively.
